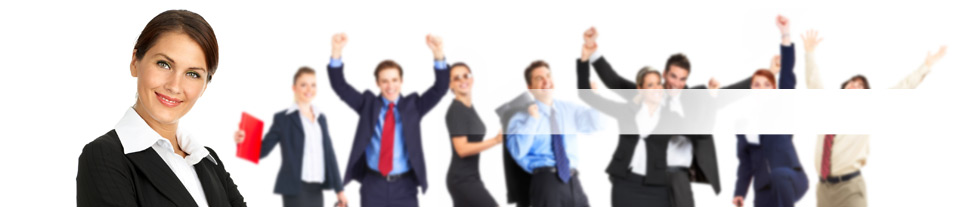
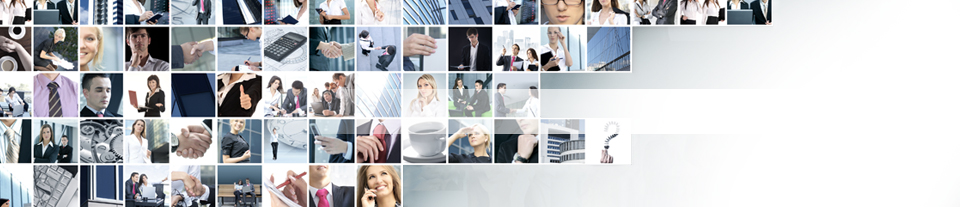
changed app variables to separate webgloo and job application code

diff --git a/job/web/css/style.css b/job/web/css/style.css
@@ -177,7 +177,7 @@ ul.reset li {
 
 
 #head {
-	background:url('images/head-bg.jpg') no-repeat center 0;
+	background:url('images/head-bg3.jpg') no-repeat center 0;
 	height:207px;
 }
 

diff --git a/job/web/opening/edit.php b/job/web/opening/edit.php
@@ -56,15 +56,13 @@
         <meta http-equiv="content-type" content="text/html;" />
 
         <link rel="stylesheet" type="text/css" href="/css/grids-min.css">
-        <link rel="stylesheet" type="text/css" href="/css/jquery/flick/jquery-ui-1.8.14.custom.css">
-        <!-- app css here -->
-        <link rel="stylesheet" type="text/css" href="/css/main.css">
+        <link rel="stylesheet" type="text/css" href="/css/style.css">
 
         <script type="text/javascript" src="/js/jquery-1.6.2.min.js"></script>
         <!-- jquery UI and css -->
         <script type="text/javascript" src="/js/jquery-ui-1.8.14.custom.min.js"></script>
         <script type="text/javascript" src="/js/main.js"></script>
-
+		
 
     </head>
 

diff --git a/lib/webgloo/common/html/template/Flexy.php b/lib/webgloo/common/html/template/Flexy.php
@@ -22,8 +22,8 @@ namespace webgloo\common\html\template {
 
         static function getOptions() {
             $options = array(
-                'templateDir' => $_SERVER['TEMPLATE_FILE_DIR'],
-                'compileDir' => $_SERVER['TEMPLATE_COMPILE_DIR'],
+                'templateDir' => $_SERVER['WEB_TEMPLATE_DIR'],
+                'compileDir' => $_SERVER['WEB_TEMPLATE_COMPILE_DIR'],
                 'compiler' => 'Flexy',
                 'locale' => 'en',
                 'debug' => 0

diff --git a/lib/webgloo/common/Configuration.php b/lib/webgloo/common/Configuration.php
@@ -30,7 +30,7 @@ namespace webgloo\common {
 
         function __construct() {
             //each application will read from its own config file
-            $iniFile = $_SERVER['APP_CONFIG_FILE'];
+            $iniFile = $_SERVER['APP_CONFIG_PATH'];
             file_exists($iniFile) || die("unable to open app_config.ini file ");
             // create config object
             $this->ini_array = parse_ini_file($iniFile);

diff --git a/job/web/template.php b/job/web/template.php
@@ -14,7 +14,7 @@
         <meta http-equiv="content-type" content="text/html; charset=ISO-8859-1" />
 
         <link rel="stylesheet" type="text/css" href="/css/grids-min.css">
-        <link rel="stylesheet" type="text/css" href="/css/main.css">
+        <link rel="stylesheet" type="text/css" href="/css/style.css">
         
     </head>
 

diff --git a/job/test/unit-opening.php b/job/test/unit-opening.php
@@ -1,6 +1,6 @@
 <?php
 include 'job-app.inc';
-require_once ($_SERVER['CLASS_LOADER_FILE']);
+require_once ($_SERVER['APP_CLASS_LOADER']);
 
 $openingDao = new webgloo\job\dao\Opening();
 $openingDao->create(2,'s.j@indigloo.com' , 'web developer job', 'design description -2 ' , 20000);

diff --git a/job/web/pub/index.php b/job/web/pub/index.php
@@ -9,7 +9,9 @@
 
 ?>
 
-<!DOCTYPE HTML PUBLIC "-//W3C//DTD HTML 4.01 Transitional//EN">
+<!DOCTYPE html PUBLIC "-//W3C//DTD XHTML 1.0 Transitional//EN"
+   "http://www.w3.org/TR/xhtml1/DTD/xhtml1-transitional.dtd">
+   
 <html xmlns="http://www.w3.org/1999/xhtml" id="nojs">
 
 

diff --git a/job/web/help/tc.php b/job/web/help/tc.php
@@ -2,7 +2,7 @@
 
     <head>
        <!-- app css here -->
-        <link rel="stylesheet" type="text/css" href="/css/main.css">
+        <link rel="stylesheet" type="text/css" href="/css/style.css">
     </head>
     <body>
 

diff --git a/job/test/unit-application.php b/job/test/unit-application.php
@@ -1,6 +1,6 @@
 <?php
 include 'job-app.inc';
-require_once ($_SERVER['CLASS_LOADER_FILE']);
+require_once ($_SERVER['APP_CLASS_LOADER']);
 
 $applicationDao = new webgloo\job\dao\Application();
 $applicationDao->create(2,
